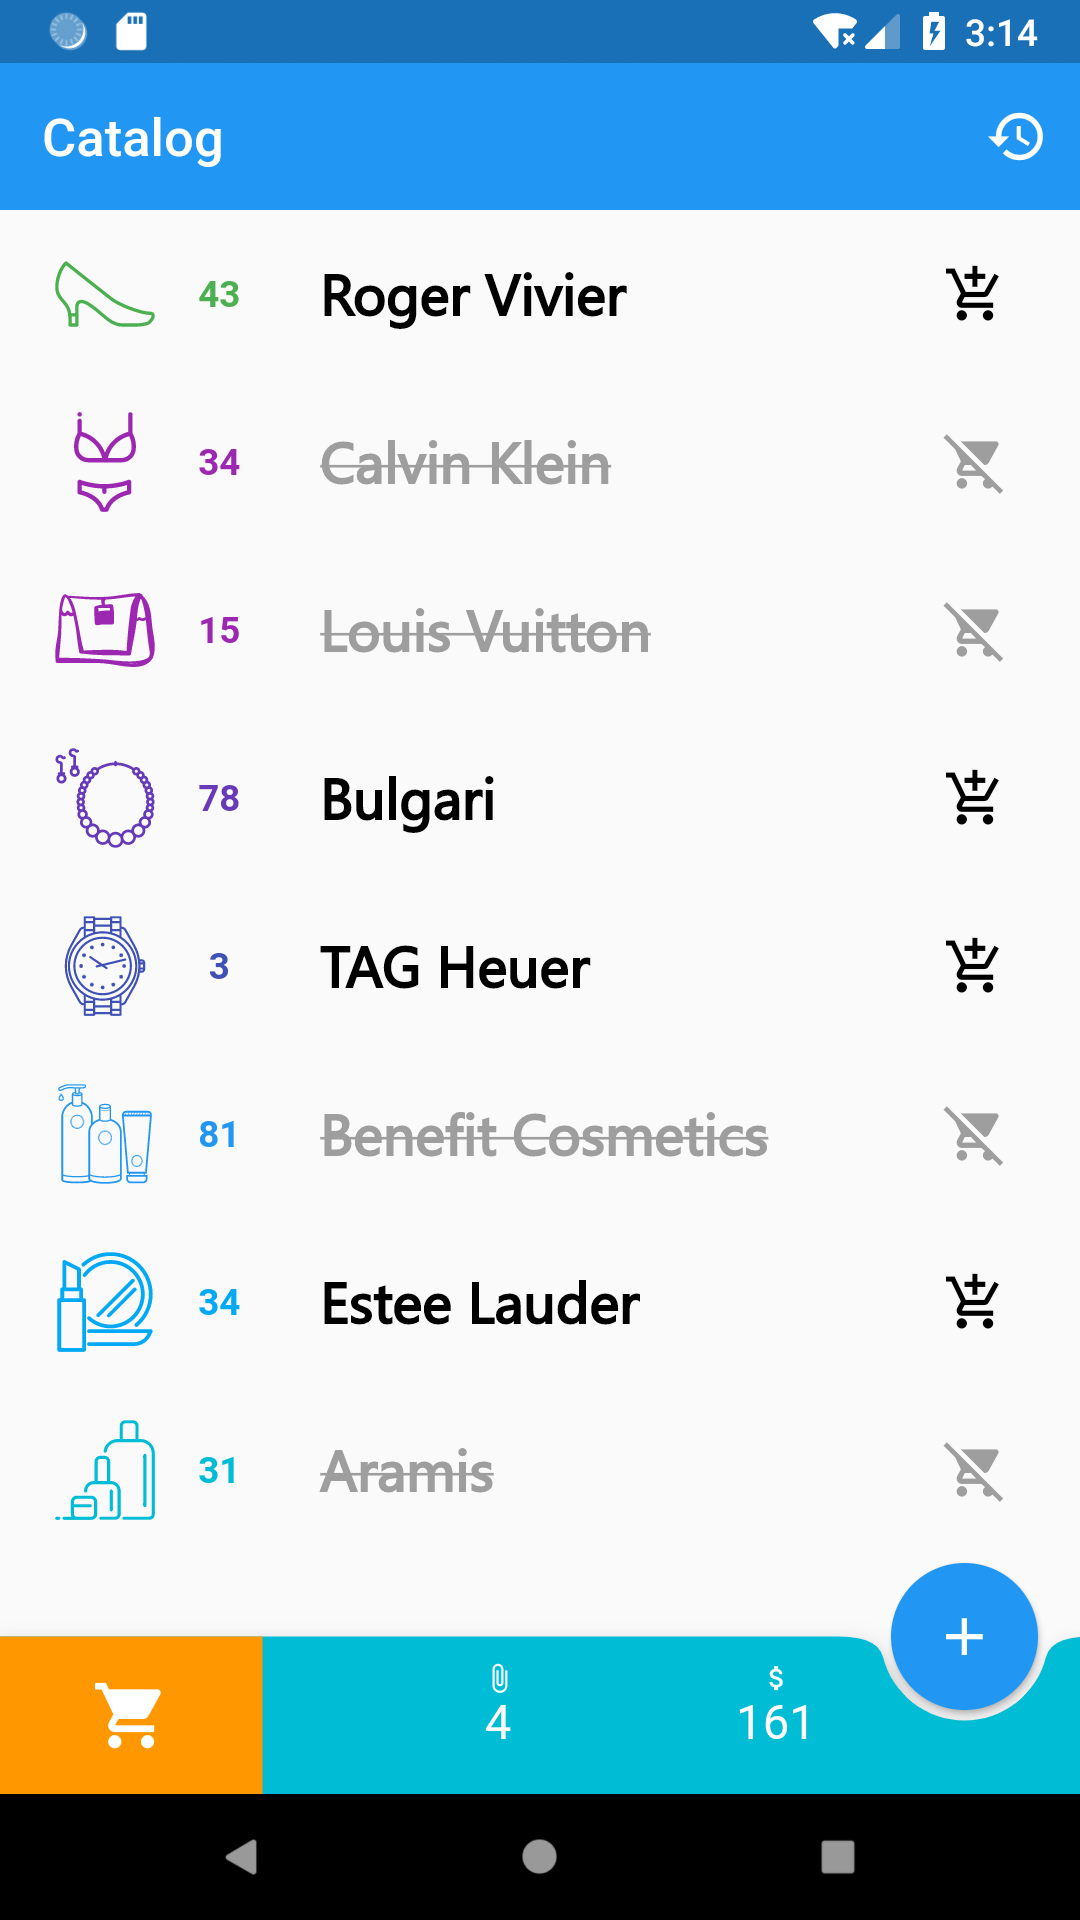
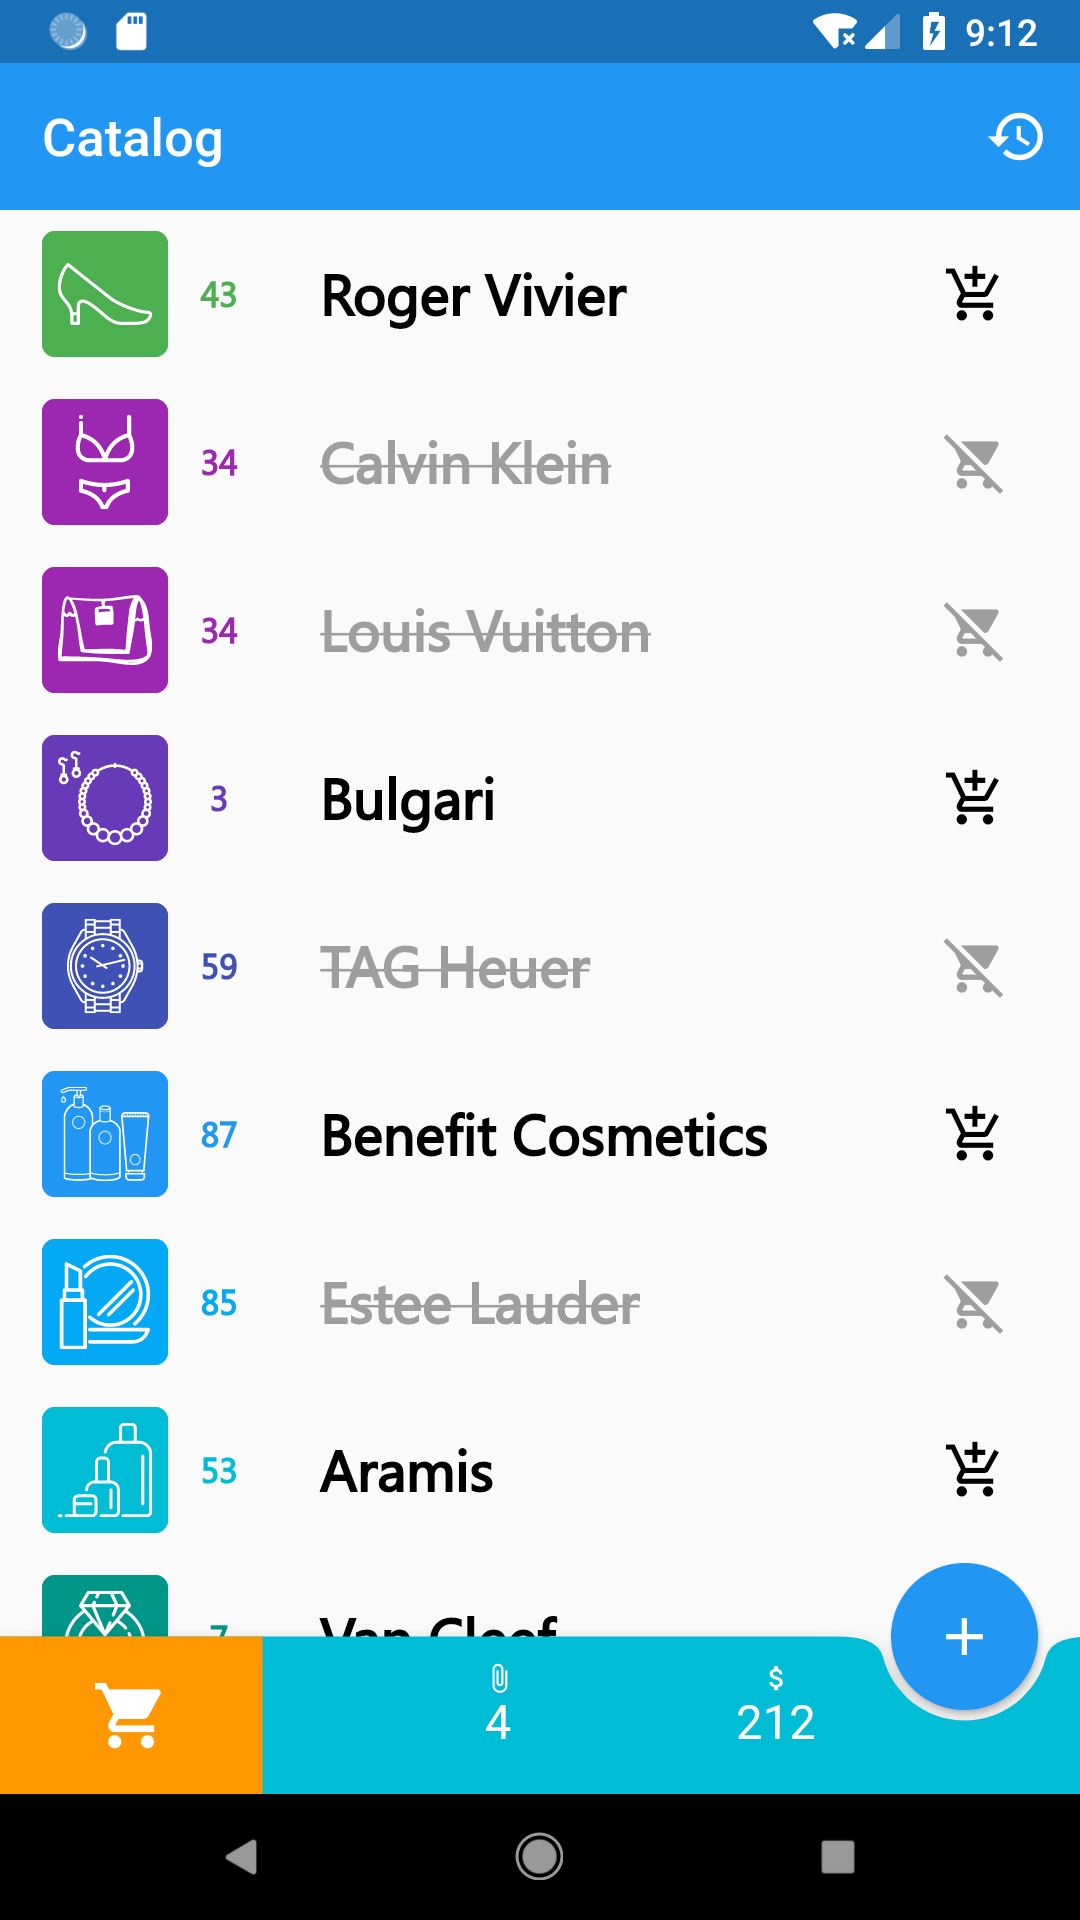
ui enhancement

diff --git a/lib/views/cart.dart b/lib/views/cart.dart
@@ -36,27 +36,34 @@ class _CartList extends StatelessWidget {
     return ListView.builder(
       itemCount: cart.items.length,
       itemBuilder: (context, index) => ListTile(
-          leading: Icon(
-            Icons.chevron_right,
+        leading: ClipOval(
+          child: Container(
+            padding: EdgeInsets.all(0.0),
+            color: Colors.white,
+            child: Icon(
+              Icons.fiber_manual_record,
+              color: Color(cart.items[index].color),
+            ),
+          ),
+        ),
+        title: Text(
+          cart.items[index].name,
+          style: TextStyle(
+            fontFamily: 'YaHei',
+            color: Colors.white,
+            fontSize: 18,
+          ),
+        ),
+        trailing: IconButton(
+          icon: Icon(
+            Icons.delete_outline,
             color: Colors.white,
           ),
-          title: Text(
-            cart.items[index].name,
-            style: TextStyle(
-              fontFamily: 'YaHei',
-              color: Colors.white,
-              fontSize: 18,
-            ),
-          ),
-          trailing: IconButton(
-            icon: Icon(
-              Icons.delete_outline,
-              color: Colors.white,
-            ),
-            onPressed: () {
-              cart.remove(cart.items[index]);
-            },
-          )),
+          onPressed: () {
+            cart.remove(cart.items[index]);
+          },
+        ),
+      ),
     );
   }
 }

diff --git a/lib/views/catalog.dart b/lib/views/catalog.dart
@@ -206,10 +206,18 @@ class _CatalogList extends StatelessWidget {
             AspectRatio(
               aspectRatio: 1,
               child: Container(
-                color: Colors.transparent,
+                decoration: BoxDecoration(
+                  color: Color(item.color),
+                  border: Border.all(
+                    color: Color(item.color),
+                  ),
+                  borderRadius: BorderRadius.all(
+                    const Radius.circular(5.0),
+                  ),
+                ),
                 padding: EdgeInsets.all(5.0),
                 child: SvgPicture.asset("assets/${item.name}.svg",
-                    color: Color(item.color), semanticsLabel: '${item.name}'),
+                    color: Colors.white, semanticsLabel: '${item.name}'),
               ),
             ),
             Container(
@@ -219,8 +227,10 @@ class _CatalogList extends StatelessWidget {
                 child: Text(
                   item.price.toString(),
                   style: TextStyle(
+                    fontFamily: 'YaHei',
+                    fontWeight: FontWeight.w700,
+                    fontSize: 12,
                     color: Color(item.color),
-                    fontWeight: FontWeight.bold,
                   ),
                 ),
               ),
